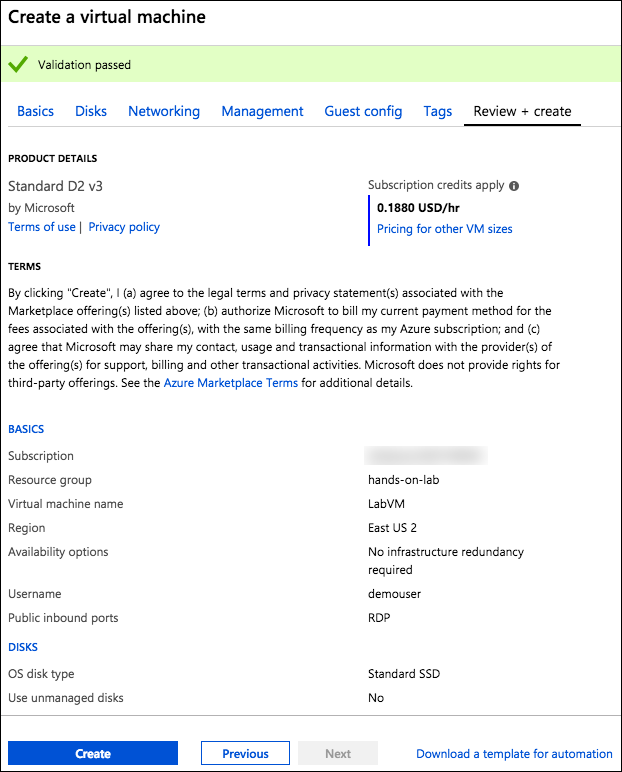
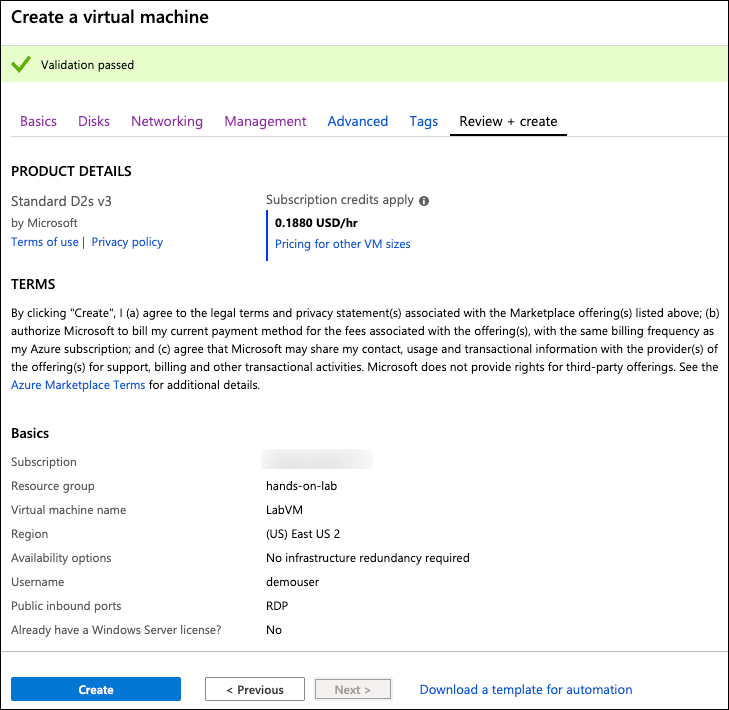
Before the lab updates

Changed region(s): [[0.0, 0.0, 1.0, 1.0], [0.9775, 0.1549, 1.0, 0.2169]]

diff --git a/Hands-on lab/Before the HOL - Data Platform upgrade and migration.md b/Hands-on lab/Before the HOL - Data Platform upgrade and migration.md
@@ -9,7 +9,7 @@ Before the hands-on lab setup guide
 </div>
 
 <div class="MCWHeader3">
-April 2019
+September 2019
 </div>
 
 Information in this document, including URL and other Internet Web site references, is subject to change without notice. Unless otherwise noted, the example companies, organizations, products, domain names, e-mail addresses, logos, people, places, and events depicted herein are fictitious, and no association with any real company, organization, product, domain name, e-mail address, logo, person, place or event is intended or should be inferred. Complying with all applicable copyright laws is the responsibility of the user. Without limiting the rights under copyright, no part of this document may be reproduced, stored in or introduced into a retrieval system, or transmitted in any form or by any means (electronic, mechanical, photocopying, recording, or otherwise), or for any purpose, without the express written permission of Microsoft Corporation.
@@ -32,8 +32,7 @@ Microsoft and the trademarks listed at <https://www.microsoft.com/en-us/legal/in
     - [Task 3: Create SQL Server 2017 virtual machine](#task-3-create-sql-server-2017-virtual-machine)
     - [Task 4: Create SQL Server 2008 R2 virtual machine](#task-4-create-sql-server-2008-r2-virtual-machine)
     - [Task 5: Connect to the Lab VM](#task-5-connect-to-the-lab-vm)
-    - [Task 6: Add inbound port 1433 rule on the SqlServer2008 VM network security group](#task-6-add-inbound-port-1433-rule-on-the-sqlserver2008-vm-network-security-group)
-    - [Task 7: Connect to the SqlServer2008 VM](#task-7-connect-to-the-sqlserver2008-vm)
+    - [Task 6: Connect to the SqlServer2008 VM](#task-6-connect-to-the-sqlserver2008-vm)
     - [Task 8: Provision Azure SQL Database](#task-8-provision-azure-sql-database)
     - [Task 9: Register the Microsoft DataMigration resource provider](#task-9-register-the-microsoft-datamigration-resource-provider)
     - [Task 10: Create Azure Database Migration Service](#task-10-create-azure-database-migration-service)
@@ -76,15 +75,17 @@ In this task, you will create an Azure resource group for the resources used thr
 
 In this task, you will provision a virtual machine (VM) in Azure. The VM image used will have Visual Studio Community 2017 installed.
 
-1. In the [Azure portal](https://portal.azure.com/), select **+Create a resource**, enter "visual studio community" into the Search the Marketplace box, expand the Visual Studio group, and then select **Visual Studio Community 2017 (latest release) on Windows Server 2016 (x64)** from the results.
+1. In the [Azure portal](https://portal.azure.com/), select **+Create a resource**, enter "visual studio 2019" into the Search the Marketplace box, and then select **Visual Studio 2019 Latest**.
 
-    ![+Create a resource is selected in the Azure navigation pane, and "visual studio community" is entered into the Search the Marketplace box. Visual Studio Community 2017 (latest release) on Windows Server 2016 (x64) is selected in the results.](./media/create-resource-visual-studio-on-windows-server-2016.png "Create Windows Server 2016 with Visual Studio Community 2017")
+    ![+Create a resource is selected in the Azure navigation pane, and "visual studio 2019" is entered into the Search the Marketplace box. Visual Studio 2019 Latest is selected in the results.](media/create-resource-visual-studio.png "Create Visual Studio resource")
 
-2. Select **Create** on the Visual Studio blade.
+2. On the **Visual Studio 2019 Latest** blade, select the Select a software plan drop down list, and choose **Visual Studio 2019 Community (latest release) on Windows Server 2019 (x64)**from the list.
 
-    ![The Create button is highlighted on the Create Visual Studio VM blade.](media/visual-studio-create.png "Create Visual Studio VM")
+    ![Visual Studio Community 2019 (latest release) on Windows Server 2019 (x64) is selected and highlighted in the Select a software plan drop down list on the Visual Studio 2019 Latest blade.](./media/create-resource-visual-studio-software-plan.png "Visual Studio 2019 Latest")
 
-3. On the Create a virtual machine Basics tab, set the following configuration:
+3. Select **Create** on the Visual Studio blade.
+
+4. On the Create a virtual machine Basics tab, set the following configuration:
 
     - Project Details:
 
@@ -96,8 +97,8 @@ In this task, you will provision a virtual machine (VM) in Azure. The VM image u
         - **Virtual machine name**: Enter LabVM.
         - **Region**: Select the region you are using for resources in this hands-on lab.
         - **Availability options**: Select no infrastructure redundancy required.
-        - **Image**: Leave Visual Studio Community 2017 (latest release) on Windows Server 2016 (x64) selected.
-        - **Size**: Accept the default size, Standard D2 v3.
+        - **Image**: Leave Visual Studio Community 2019 (latest release) on Windows Server 2019 (x64) selected.
+        - **Size**: Select this and choose Standard D2s v3.
 
     - Administrator Account:
 
@@ -109,33 +110,33 @@ In this task, you will provision a virtual machine (VM) in Azure. The VM image u
         - **Public inbound ports**: Choose Allow selected ports.
         - **Select inbound ports**: Select RDP (3389) in the list.
 
-        ![Screenshot of the Basics tab, with fields set to the previously mentioned settings.](media/lab-virtual-machine-basics-tab.png "Create a virtual machine Basics tab")
+    ![Screenshot of the Basics tab, with fields set to the previously mentioned settings.](media/lab-virtual-machine-basics-tab.png "Create a virtual machine Basics tab")
 
-    - Select **Next: Disks** to move to the next step.
+5. Select **Review + create**.
 
-4. On the Disks tab, set OS disk type to **Standard SSD**, and then select **Review + create**. Note, the remaining tabs can be skipped, and default values will be used.
+    > **Note**: Default values are used for the remaining tabs, so they can be skipped.
 
-    ![On the Create a virtual machine Disks tab, the OS disk type is set to Standard SSD.](media/lab-virtual-machine-disks-tab.png "Create a virtual machine Disks tab")
-
-5. On the **Review + create** tab, ensure the Validation passed message is displayed, and then select **Create** to provision the virtual machine.
+6. On the **Review + create** tab, ensure the Validation passed message is displayed, and then select **Create** to provision the virtual machine.
 
     ![The Review + create tab is displayed, with a Validation passed message.](media/lab-virtual-machine-review-create-tab.png "Create a virtual machine Review + create tab")
 
-6. It may take 10+ minutes for the virtual machine to complete provisioning. You can move on to the next task while waiting for the lab VM to provision.
+7. It may take 10+ minutes for the virtual machine to complete provisioning. You can move on to the next task while waiting for the lab VM to provision.
 
 ### Task 3: Create SQL Server 2017 virtual machine
 
 In this task, you will provision another virtual machine (VM) in Azure which will host your "on-premises" instance of SQL Server 2017 Enterprise.
 
-1. In the [Azure portal](https://portal.azure.com/), select **+Create a resource**, enter "sql server 2017" into the Search the Marketplace box, expand the SQL Server 2017 on Windows Server 2016 group, and then select **SQL Server 2017 Enterprise Windows Server 2016** from the results.
+1. In the [Azure portal](https://portal.azure.com/), select **+Create a resource**, enter "sql server 2017" into the Search the Marketplace box and select **SQL Server 2017 on Windows Server 2016**.
 
     ![+ Create a resource is highlighted on the left side of the Azure portal, and at right, sql server 2017 and SQL Server 2017 Enterprise Windows Server 2016 are highlighted.](./media/create-resource-sql-server-2017.png "Azure portal")
 
-2. Select **Create** on the SQL Server 2017 on Windows Server 2016 blade.
+2. On the **SQL Server 2017 Enterprise Windows Server 2016** blade, select the Select a software plan drop down, and select **Free SQL Server License: SQL Server 2017 Developer on Windows Server 2016** from the list.
 
-    ![The Create button is highlighted on the Create SQL Server 2017 on Windows Server 2016 VM blade.](media/sql-server-2017-create.png "Create SQL Server 2017 VM")
+    ![Free SQL Server License: SQL Server 2017 Developer on Windows Server 2016 is selected and highlighted in the Select a software plan drop down list.](media/create-resource-sql-server-2017-software-plan.png "SQL Server 2017 on Windows Server 2016")
 
-3. On the Create a virtual machine Basics tab, set the following configuration:
+3. Select **Create** on the SQL Server 2017 on Windows Server 2016 blade.
+
+4. On the Create a virtual machine Basics tab, set the following configuration:
 
     - Project Details:
 
@@ -162,17 +163,11 @@ In this task, you will provision another virtual machine (VM) in Azure which wil
 
         ![Screenshot of the Basics tab, with fields set to the previously mentioned settings.](media/sql-2017-virtual-machine-basics-tab.png "Create a virtual machine Basics tab")
 
-4. Select **Next: Disks** to move to the next step.
-
-5. On the **Disks** tab, select **Premium SSD** for the OS disk type.
-
-    ![On the Disks tab, Premium SSD is selected and highlighted for the OS disk type.](media/sql-2017-create-vm-disks-tab.png "Create a virtual machine")
-
-6. Select the **SQL Server settings** tab from the top menu. The default values will be used for Networking, Management and Advanced, so you don't need to do anything on those tabs.
+5. Select the **SQL Server settings** tab from the top menu. The default values will be used for Disks, Networking, Management and Advanced, so you don't need to do anything on those tabs.
 
     ![The SQL Server settings tab is highlighted and selected in the Create a virtual machine configuration tabs list.](media/sql-2017-create-vm-tabs.png "Create a virtual machine configuration tabs")
 
-7. On the **SQL Server settings** tab, set the following properties:
+6. On the **SQL Server settings** tab, set the following properties:
 
     - Security & Networking:
 
@@ -185,17 +180,17 @@ In this task, you will provision another virtual machine (VM) in Azure which wil
       - **Login name**: Enter demouser
       - **Password**: Enter **Password.1!!**
 
-        ![The previously specified values are entered into the SQL Server Settings blade.](media/sql-server-2017-create-vm-sql-settings.png "Create SQL Server 2017 SQL Server Settings")
+    ![The previously specified values are entered into the SQL Server Settings blade.](media/sql-server-2017-create-vm-sql-settings.png "SQL Server Settings")
 
-8. Select **Review + create** to review the VM configuration.
+7. Select **Review + create** to review the VM configuration.
 
     ![The Review + create button is selected on the Create a virtual machine blade.](media/create-a-virtual-machine-review-create.png "Create a virtual machine")
 
-9. On the Review + create tab, ensure the Validation passed message is displayed, and then select **Create** to provision the virtual machine.
+8. On the Review + create tab, ensure the Validation passed message is displayed, and then select **Create** to provision the virtual machine.
 
-    ![The Summary tab is displayed, with a Validation passed message.](media/sql-server-2017-create-vm-summary.png "Create SQL Server 2017 VM Summary Tab")
+    ![The Summary tab is displayed, with a Validation passed message.](media/sql-server-2017-create-vm-summary.png "Create SQL Server VM Summary Tab")
 
-10. It may take 10+ minutes for the virtual machine to complete provisioning. You can move on to the next task while waiting for the SqlServer2017 VM to provision.
+9. It may take 10+ minutes for the virtual machine to complete provisioning. You can move on to the next task while waiting for the SqlServer2017 VM to provision.
 
 ### Task 4: Create SQL Server 2008 R2 virtual machine
 
@@ -211,38 +206,57 @@ In this task, you will provision another virtual machine (VM) in Azure which wil
 
 3. On the Create a virtual machine Basics tab, set the following configuration:
 
-    - Project Details:
+   - Project Details:
 
-        - **Subscription**: Select the subscription you are using for this hands-on lab.
-        - **Resource Group**: Select the hands-on-lab-SUFFIX resource group from the list of existing resource groups.
+     - **Subscription**: Select the subscription you are using for this hands-on lab.
+     - **Resource Group**: Select the hands-on-lab-SUFFIX resource group from the list of existing resource groups.
 
-    - Instance Details:
+   - Instance Details:
 
-        - **Virtual machine name**: Enter SqlServer2008.
-        - **Region**: Select the region you are using for resources in this hands-on lab.
-        - **Availability options**: Select no infrastructure redundancy required.
-        - **Image**: Leave SQL Server 2008 R2 SP3 Standard on Windows Server 2008 R2 selected.
-        - **Size**: Accept the default size, Standard DS12 v2.
+     - **Virtual machine name**: Enter SqlServer2008.
+     - **Region**: Select the region you are using for resources in this hands-on lab.
+     - **Availability options**: Select no infrastructure redundancy required.
+     - **Image**: Leave SQL Server 2008 R2 SP3 Standard on Windows Server 2008 R2 selected.
+     - **Size**: Accept the default size, Standard DS12 v2.
 
-    - Administrator Account:
+   - Administrator Account:
 
-        - **Username**: Enter **demouser**
-        - **Password**: Enter **Password.1!!**
+     - **Username**: Enter **demouser**
+     - **Password**: Enter **Password.1!!**
 
-    - Inbound Port Rules:
+   - Inbound Port Rules:
 
-        - **Public inbound ports**: Choose Allow selected ports.
-        - **Select inbound ports**: Select RDP (3389) in the list.
+     - **Public inbound ports**: Choose Allow selected ports.
+     - **Select inbound ports**: Select RDP (3389) in the list.
 
-        ![Screenshot of the Basics tab, with fields set to the previously mentioned settings.](media/sql-server-2008-r2-vm-basics-tab.png "Create a virtual machine Basics tab")
+    ![Screenshot of the Basics tab, with fields set to the previously mentioned settings.](media/sql-server-2008-r2-vm-basics-tab.png "Create a virtual machine Basics tab")
 
-4. Select **Review + create** to move to the next step. Note, the remaining tabs can be skipped, and default values will be used.
+4. Select the **SQL Server settings** tab from the top menu. The default values will be used for Disks, Networking, Management and Advanced, so you don't need to do anything on those tabs.
 
-5. On the **Review + create** tab, ensure the Validation passed message is displayed, and then select **Create** to provision the virtual machine.
+    ![The SQL Server settings tab is highlighted and selected in the Create a virtual machine configuration tabs list.](media/sql-2017-create-vm-tabs.png "Create a virtual machine configuration tabs")
+
+5. On the **SQL Server settings** tab, set the following properties:
+
+   - Security & Networking:
+
+     - **SQL connectivity**: Select Public (Internet).
+     - **Port**: Leave set to 1433.
+
+   - SQL Authentication:
+
+     - **SQL Authentication**: Select Enable.
+     - **Login name**: Enter demouser
+     - **Password**: Enter **Password.1!!**
+
+     ![The previously specified values are entered into the SQL Server Settings blade.](media/sql-server-2017-create-vm-sql-settings.png "SQL Server Settings")
+
+6. Select **Review + create** to review the VM configuration.
+
+7. On the **Review + create** tab, ensure the Validation passed message is displayed, and then select **Create** to provision the virtual machine.
 
     ![The Review + create tab is displayed, with a Validation passed message.](media/sql-server-2008-r2-vm-review-create-tab.png "Create a virtual machine Review + create tab")
 
-6. It may take 10+ minutes for the virtual machine to complete provisioning. You can move on to the next task while waiting for the SqlServer2008 VM to provision.
+8. It may take 10+ minutes for the virtual machine to complete provisioning. You can move on to the next task while waiting for the SqlServer2008 VM to provision.
 
 ### Task 5: Connect to the Lab VM
 
@@ -291,34 +305,7 @@ In this task, you will create an RDP connection to your Lab virtual machine (VM)
 
 11. Close the Server Manager.
 
-### Task 6: Add inbound port 1433 rule on the SqlServer2008 VM network security group
-
-In this task, you will open port 1433 on the network security group associated with the SqlServer2008 VM to allow external communication with SQL Server.
-
-1. In the [Azure portal](https://portal.azure.com), select **Resource groups** in the Azure navigation pane, enter your resource group name (hands-on-lab-SUFFIX) into the filter box, and select it from the list.
-
-    ![Resource groups is selected in the Azure navigation pane, "hands" is entered into the filter box, and the "hands-on-lab-SUFFIX" resource group is highlighted.](./media/resource-groups.png "Resource groups list")
-
-2. In the list of resources for your resource group, select the SqlServer2008 VM.
-
-    ![The list of resources in the hands-on-lab-SUFFIX resource group are displayed, and SqlServer2008 is highlighted.](media/resource-group-resources-sqlserver2008r2.png "SqlServer2008 VM in resource group list")
-
-3. On the SqlServer2008 blade, select **Networking** under Settings in the left-hand menu, and then select **Add inbound port rule**.
-
-    ![Add inbound port rule is highlighted on the SqlServer2008 - Networking blade.](media/sql-virtual-machine-add-inbound-port-rule.png "SqlServer2008 - Networking blade")
-
-4. On the **Add inbound security rule blade**, select **Basic** and then enter the following:
-
-    - **Service**: Select MS SQL.
-    - **Port ranges**: Value will be set to 1433.
-    - **Priority**: Accept the default priority value.
-    - **Name**: Enter SqlServer.
-
-    ![On the Add inbound security rule dialog, MS SQL is selected for Service, port 1433 is selected, and the SqlServer is entered as the name.](media/sql-virtual-machine-add-inbound-security-rule-1433.png "Add MS SQL inbound security rule")
-
-5. Select **Add**.
-
-### Task 7: Connect to the SqlServer2008 VM
+### Task 6: Connect to the SqlServer2008 VM
 
 In this task, you will create an RDP connection to the SqlServer2008 VM, and add rules to the SqlServer2008 VM's Windows firewall to allow access to SQL Server via port 1433 by other machines.
 
@@ -355,31 +342,7 @@ In this task, you will create an RDP connection to the SqlServer2008 VM, and add
 
     ![Internet Explorer Enhanced Security Configuration dialog, with Off highlighted under both Administrators and Users.](media/windows-server-2008-ie-esc.png "Internet Explorer Enhanced Security Configuration dialog")
 
-9. In Server Manager, expand **Configuration** and **Windows Firewall with Advanced Security**, and then right-click on **Inbound Rules** and select **New Rule...**
-
-    ![In Server Manager, Configuration and Windows Firewall with Advanced Security are expanded, Inbound Rules is selected and New Rule is highlighted in the pop-up menu.](media/windows-firewall-with-advanced-security-new-inbound-rule.png "Server Manager")
-
-10. In the New Inbound Rule Wizard, under Rule Type, select **Port**, then select **Next**.
-
-    ![Rule Type is selected and highlighted on the left side of the New Inbound Rule Wizard, and Port is selected and highlighted on the right.](media/windows-2008-new-inbound-rule-wizard-rule-type.png "Select Port")
-
-11. In the Protocol and Ports dialog, use the default **TCP**, and enter **1433** in the Specific local ports text box, and then select **Next**.
-
-    ![Protocol and Ports is selected on the left side of the New Inbound Rule Wizard, and 1433 is in the Specific local ports box, which is selected on the right.](media/windows-2008-new-inbound-rule-wizard-protocol-and-ports.png "Select a specific local port")
-
-12. In the Action dialog, select **Allow the connection**, and then select **Next**.
-
-    ![Action is selected on the left side of the New Inbound Rule Wizard, and Allow the connection is selected on the right.](media/windows-2008-new-inbound-rule-wizard-action.png "Specify the action")
-
-13. In the Profile step, check **Domain**, **Private**, and **Public**, then select **Next**.
-
-    ![Profile is selected on the left side of the New Inbound Rule Wizard, and Domain, Private, and Public are selected on the right.](media/windows-2008-new-inbound-rule-wizard-profile.png "Select Domain, Private, and Public")
-
-14. On the Name screen, enter **SqlServer** for the name, and select **Finish**.
-
-    ![Profile is selected on the left side of the New Inbound Rule Wizard, and sqlserver is in the Name box on the right.](media/windows-2008-new-inbound-rule-wizard-name.png "Specify the name")
-
-15. Close the Server Manager.
+9. Close the Server Manager.
 
 ### Task 8: Provision Azure SQL Database
 
@@ -405,7 +368,7 @@ In this task, you will create an Azure SQL Database, which will serve as the tar
         - **Password**: Enter Password.1!!
         - **Location**: Select the location you are using for resources in this hands-on lab.
         - **Allow Azure services to access server**: Ensure this is checked.
-        - Select **Select**.
+        - Select **OK**.
       - **Want to use SQL elastic pool?**: Select **No**.
 
         ![The Basic tab with the values specified above entered into the appropriate fields is displayed.](media/azure-sql-database-create-basic-tab.png "Create SQL Database Basic tab")
@@ -414,7 +377,7 @@ In this task, you will create an Azure SQL Database, which will serve as the tar
 
         ![Configure database is highlighted under Compute + storage.](media/azure-sql-database-create-compute-storage.png "Compute + storage")
 
-    - On the Compute + storage blade, select the **Premium** tab, with 125 DTUs and 500 GB, and then select **Apply**.
+    - On the Compute + storage blade, select the **Looking for basic, standard, premium?** link, and then select the **Premium** tab, with 125 DTUs and 500 GB, and then select **Apply**.
 
         ![The Configure pricing tier for SQL Server is displayed, with Premium selected and highlighted.](media/azure-sql-database-pricing-tier-premium.png "SQL Pricing tier configuration")
 
@@ -448,21 +411,21 @@ In this task, you will provision an instance of the Azure Database Migration Ser
 
 2. On the Create Migration Service blade, enter the following:
 
-    - **Service Name**: Enter wwi-dms.
+   - **Service Name**: Enter wwi-dms.
 
-    - **Subscription**: Select the subscription you are using for this hands-on lab.
+   - **Subscription**: Select the subscription you are using for this hands-on lab.
 
         >**Note**:  If you see the message `Your subscription doesn't have proper access to Microsoft.DataMigration`, refresh the browser window before proceeding. If the message persists, verify you successfully registered the resource provider, and then you can safely ignore this message.
 
-    - **Resource Group**: Select the hands-on-lab-SUFFIX resource group from the list of existing resource groups.
+   - **Resource Group**: Select the hands-on-lab-SUFFIX resource group from the list of existing resource groups.
 
-    - **Location**: Select the location you are using for resources in this hands-on lab.
+   - **Location**: Select the location you are using for resources in this hands-on lab.
 
-    - **Virtual network**: Select the **hands-on-lab-SUFFIX-vnet/default** virtual network, and then select **OK**. This will place the DMS instance into the same VNet as your SQL Server and Lab VMs.
+   - **Virtual network**: Select the **hands-on-lab-SUFFIX-vnet/default** virtual network, and then select **OK**. This will place the DMS instance into the same VNet as your SQL Server and Lab VMs.
 
-    - **Pricing tier**: Select Standard: 1 vCores.
+   - **Pricing tier**: Select Standard: 1 vCores.
 
-    ![The Create Migration Service blade is displayed, with the values specified above entered into the appropriate fields.](media/create-migration-service.png "Create Migration Service")
+   ![The Create Migration Service blade is displayed, with the values specified above entered into the appropriate fields.](media/create-migration-service.png "Create Migration Service")
 
 3. Select **Create**.
 
